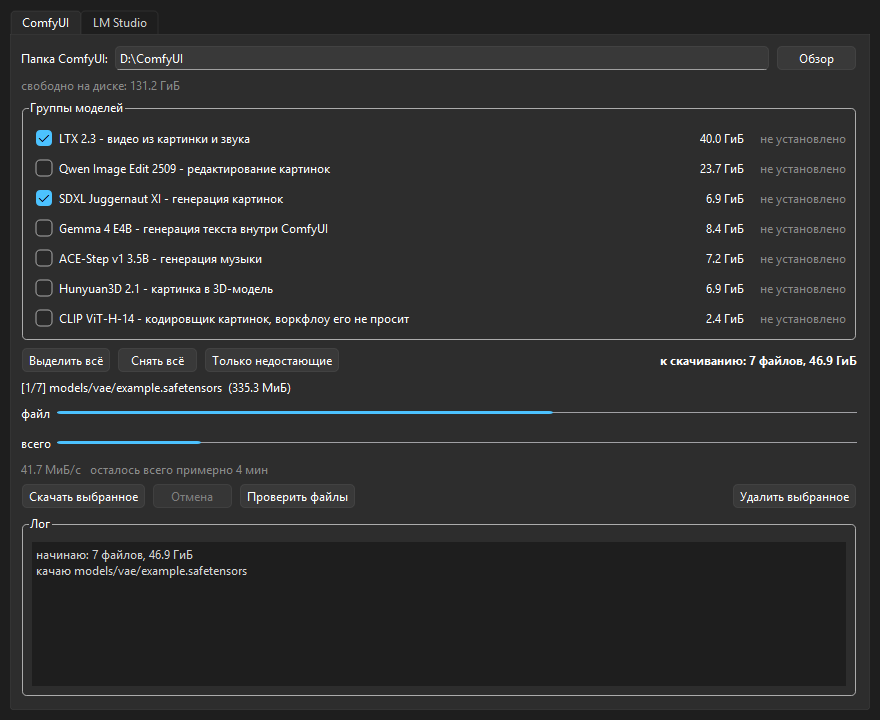
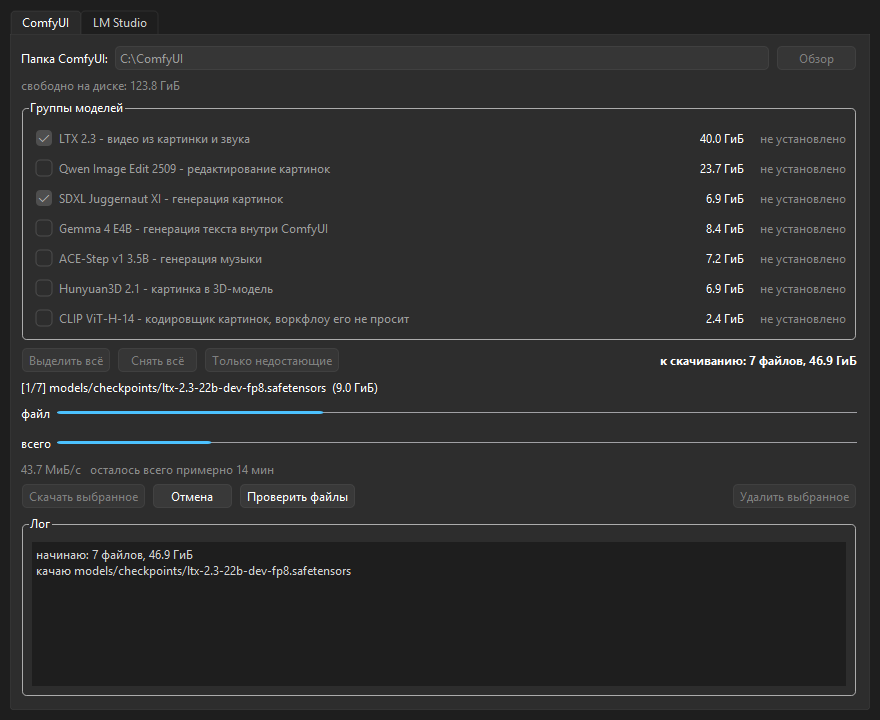
Снимки окна для README собирает скрипт, а не рука
Прежние снимки сделаны руками и показывали то, чего программа показать не могла:
папку D:\ComfyUI и «свободно 131.2 ГиБ» на машине, где диска D нет вовсе.
Скрипт поднимает настоящее окно, отмечает две группы и проигрывает кадры
прогресса через ту же очередь событий, что и живая закачка; сеть не трогается,
кадры считает core.QueueProgress по размерам из манифеста. LOCALAPPDATA на время
съёмки уводится во временную папку, поэтому запомненная папка ComfyUI не меняется.

diff --git a/tools/make_screenshots.py b/tools/make_screenshots.py
@@ -1,0 +1,104 @@
+#!/usr/bin/env python3
+r"""Снимки окна для README: собираются программой, а не руками.
+
+    .venv\Scripts\python.exe tools\make_screenshots.py
+
+Скрипт поднимает настоящее окно, отмечает две группы, проигрывает через ту же
+очередь событий, что и живая закачка, несколько кадров прогресса и снимает виджет
+через QWidget.grab() - по кадру на вкладку.
+
+Снимок области экрана не годится дважды. Окно может оказаться позади других, и в
+кадр попадёт чужое содержимое. А ещё в прошлых снимках стояла папка D:\ComfyUI и
+«свободно 131.2 ГиБ» - диска D на машине нет, то есть картинка показывала то,
+чего программа показать не могла.
+
+Настоящую сеть скрипт не трогает: кадры прогресса считает core.QueueProgress по
+размерам из манифеста, ничего не скачивая. LOCALAPPDATA подменяется на временную
+папку, поэтому settings.json с выбранной папкой у автора не меняется.
+"""
+
+import os
+import shutil
+import sys
+import tempfile
+from pathlib import Path
+
+ROOT = Path(__file__).resolve().parent.parent
+OUT = ROOT / "docs"
+sys.path.insert(0, str(ROOT))
+
+# Папка ComfyUI для снимка: настоящая, пустая и с коротким именем. Настоящая -
+# потому что окно спрашивает у неё свободное место и состояние каждой группы, а у
+# несуществующей честно пишет «папка не найдена» красным.
+SHOT_ROOT = Path("C:/ComfyUI")
+
+PICKED = ("ltx", "sdxl")
+
+
+def prepare_env(tmp: str) -> None:
+    os.environ["LOCALAPPDATA"] = tmp
+    os.environ["COMFYUI_ROOT"] = str(SHOT_ROOT)
+
+
+def play_download(app, core) -> None:
+    """Прогоняет начало закачки: те же события, что кладёт в очередь поток."""
+    from gui import size_ru
+    from core import pending
+
+    job = pending(app.manifest, list(PICKED), SHOT_ROOT)
+    bars = core.QueueProgress([e["size"] for e in job], [0] * len(job))
+    first = job[0]
+
+    app.lock_controls(True)
+    app.download_button.setEnabled(False)
+    app.cancel_button.setEnabled(True)
+    app.log(f"начинаю: {len(job)} файлов, {size_ru(sum(e['size'] for e in job))}")
+    app.log(f"качаю {first['dest']}")
+    app.events.put(("file", f"[1/{len(job)}] {first['dest']}  ({size_ru(first['size'] // 3)})"))
+    app.events.put(("progress", bars.advance(first["size"] // 3) + (43.7 * 1024 * 1024,)))
+    app.drain_events()
+
+
+def main() -> None:
+    made_root = not SHOT_ROOT.exists()
+    if made_root:
+        SHOT_ROOT.mkdir(parents=True)
+    tmp = tempfile.mkdtemp(prefix="installer-models-shots-")
+    try:
+        prepare_env(tmp)
+        import core
+        from gui import App, create_app
+
+        app = create_app()
+        win = App()
+        win.resize(880, 720)
+        win.show()
+        app.processEvents()
+
+        for key in PICKED:
+            win.rows[key].set_picked(True)
+        win.update_selection()
+        play_download(win, core)
+        for _ in range(5):
+            app.processEvents()
+
+        for index, name in ((0, "screen-comfyui.png"), (1, "screen-lmstudio.png")):
+            win.tabs.setCurrentIndex(index)
+            for _ in range(5):
+                app.processEvents()
+            shot = OUT / name
+            win.grab().save(str(shot))
+            print(f"  {name} ({shot.stat().st_size // 1024} КБ)")
+
+        win.close()
+    finally:
+        shutil.rmtree(tmp, ignore_errors=True)
+        # Убираем за собой только то, что сами и создали: у человека в C:\ComfyUI
+        # может стоять настоящий ComfyUI на сотню гигабайт.
+        if made_root and SHOT_ROOT.is_dir() and not any(SHOT_ROOT.iterdir()):
+            SHOT_ROOT.rmdir()
+    print(f"Готово: {OUT}")
+
+
+if __name__ == "__main__":
+    main()
